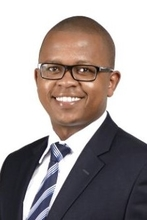
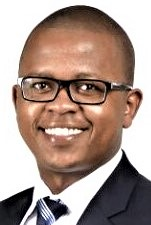
Fixing typography

diff --git a/index.html b/index.html
@@ -185,43 +185,26 @@
         <div class="row footer-main">
 
              <div class="col-six tab-full left">
-                 <h5 class="h5" style="text-align: center; color: #1B308A; font-weight: 900;"><i class="fa fa-caret-up" aria-hidden="true"></i> LXG Trinity</h5>
+                 <h5 class="h5" style="text-align: center; color: #1B308A; font-weight: 900;">LXG Trinity</h5>
                     <p style="text-align: justify;">
                        Our Trinity serves to represent the foundations that guide us in achieving the Extra element in an ordinary event that creates a positive outcome to our businesses and clients
                     </p>
-                    <ul type="square" style="text-align: left; list-style-type: none;">
-                        <li><i class="fa fa-handshake-o"></i> Partnership</li>
-                        <li><i class="fa fa-lightbulb-o" aria-hidden="true"></i> Skillset</li>
-                        <li><i class="fa fa-line-chart" aria-hidden="true"></i> Value</li>
+                    <ul type="square" style="text-align: left;">
+                        <li>Leverage</li>
+                        <li>Experience</li>
+                        <li>Growth</li>
                     </ul>
              </div>
              <div class="col-six tab-full right">
-                 <h5 class="blockquote-title" style="text-align: center; color: #1B308A; font-weight: 900;"><i class="fa fa-area-chart" aria-hidden="true"></i> Vision and Mission
-                </h5>
+                 <h5 class="blockquote-title" style="text-align: center; color: #1B308A; font-weight: 900;">Vision</h5>
                     <p style="text-align: justify;">
                         LXG Group will continue to look over and beyond the realms of the ordinary to enable it to become the leading provider of business solutions for Africa. As the world shines it light on Africa, LXG Group will be there to harness these opportunities and impact business activities across the continent.
                     </p>
-                    <h5 class="blockquote-title" style="font-weight: 900;">Mision</h5>
+                    <h5 class="blockquote-title" style="font-weight: 900; color: #1B308A; text-align: center;">Mision</h5>
                         <p style="font-size: 1.0em;">
                             To transform businesses by going the extra mile.
                         </p>
              </div>
-             <hr>
-        </div>
-        <div class="row about-desc aos-init aos-animate" data-aos="fade-up">
-            <div class="col-full">
-                <p>Our Group's activities are present in:</p>
-                <ul style="font-size: 1.4rem; text-align: left;">
-                    <li><a href="consultancy.html" title="activities">Consulting Services</a></li>
-                    <li><a href="building-construction.html" title="activities">Building and Construction</a></li>
-                    <li><a href="supply-management.html" title="activities">Supply Management</a></li>
-                    <li><a href="automotive-sales.html" title="activities">Automotive Sales and Tuning</a></li>
-                    <li><a href="transport-logistics.html" title="activities">Transport and Logistics</a></li>
-                    <li><a href="food-and-beverage.html" title="activities">Foods and Beverages</a></li>
-                    <li><a href="entertainmemt.html" title="activities">Entertainment and Recreation</a></li>
-                    <li><a href="realty.html" title="activities">Realty</a></li>    
-                </ul>
-            </div>
         </div>
         <!-- end about-desc -->
         <div class="about__line"></div>

diff --git a/css/main.css b/css/main.css
@@ -2217,7 +2217,7 @@ html.no-csstransitions .home-content__main {
  * ------------------------------------------------------------------- */
 @media only screen and (max-width: 1200px) {
     .about-desc {
-        font-size: 2.2rem;
+        font-size: 2rem;
         max-width: 940px;
     }
     .about-stats {
@@ -3984,24 +3984,159 @@ footer .row {
 }
 
 
-/*.rounded-circle {
-  border-radius: 50% !important;
-  height: 350px;
-  width: 550px;
-}
 
 .img-fluid {
   max-width: 100%;
-  height: auto;
-}*/
+  height: 700px;
+}
 
 .s-team{
     margin-top: 90px;
 }
 
-.card-text{
+.card-text {
     font-family: "Avenir Next Cyr W00 Regular";
     color: #1f1d5e;
+
 }
 
-/*# sourceMappingURL=main.css.map 
+
+/****************************************************/
+/*TEAM CSS*/
+/***************************************************/
+.lft {
+    padding-right: 110px; }
+
+.rght {
+    padding-left: 110px; }
+
+.tim {
+    margin-top: -60px; }
+
+ul.img-list {
+    list-style-type: none;
+    margin: 0;
+    padding: 0;
+    text-align: center; }
+
+ul.img-list li {
+    display: inline-block;
+    height: 100%;
+    margin: 0 1em 1em 0;
+    position: relative;
+    width: 100%; }
+
+span.text-content span {
+    display: table-cell;
+    text-align: center;
+    /*vertical-align: middle;*/ }
+
+.jina {
+    font-size: 14px;
+    padding: 5px; }
+
+span.text-content {
+    background-color: rgba(0, 0, 0, 0.8);
+    padding: 10px;
+    border-radius: 2px;
+    text-transform: uppercase;
+    font-size: 12px;
+    margin-top: 30%;
+    color: white;
+    cursor: pointer;
+    display: table;
+    height: 100%;
+    left: 0;
+    margin-left: 10%;
+    position: absolute;
+    width: 80%;
+    opacity: 0;
+    -webkit-transition: opacity 500ms;
+    -moz-transition: opacity 500ms;
+    -o-transition: opacity 500ms;
+    transition: opacity 500ms; }
+
+@media screen and (max-width: 1000px) {
+    .tim {
+        margin: 0px; }
+
+    .tambua {
+        display: none !important; }
+
+    .lft, .rght {
+        padding: 0px; }
+
+    .jina {
+        font-size: 12px; }
+
+    span.text-content {
+        display: none; }
+
+    .pic {
+        -webkit-filter: grayscale(1);
+        filter: grayscale(1);
+        width: 100%;
+        margin-top: 20px; } 
+    }
+
+
+span.text-content {
+    background: rgba(0, 0, 0, 0.5);
+    color: white;
+    display: table;
+    height: 200px;
+    left: 0;
+    position: absolute;
+    top: 0;
+    width: 250px;
+}
+
+ul.img-list li {
+    display: inline-block;
+    height: 200px;
+    margin: 0 1em 1em 0;
+    position: relative;
+    width: 250px;
+    -webkit-filter: grayscale(0%);
+    filter: grayscale(0%); }
+
+ul.img-list li:hover {
+    -webkit-filter: grayscale(80%);
+    filter: grayscale(80%); }
+
+span.text-content span {
+    display: table-cell;
+    text-align: justify;
+    vertical-align: middle; }
+
+
+span.text-content {
+    background: rgba(0, 0, 0, 0.5);
+    color: white;
+    cursor: pointer;
+    display: table;
+    height: 200px;
+    left: 0;
+    position: absolute;
+    top: 0;
+    width: 250px;
+    opacity: 0; }
+
+.img-list:hover span.text-content {
+    opacity: 1; }
+
+span.text-content {
+    background: rgba(0, 0, 0, 0.5);
+    color: white;
+    cursor: pointer;
+    display: table;
+    height: 200px;
+    left: 0;
+    position: absolute;
+    top: 0;
+    width: 250px;
+    opacity: 0;
+    -webkit-transition: opacity 500ms;
+    -moz-transition: opacity 500ms;
+    -o-transition: opacity 500ms;
+    transition: opacity 500ms; }

diff --git a/board.html b/board.html
@@ -135,7 +135,7 @@
         </div>
 
         <!-- 3 columns -->
-<div class="row block-1-3 block-m-1-2 block-mob-full aos-init aos-animate" data-aos="fade-up">
+<div class="row block-1-3 block-m-1-2 block-mob-full aos-init aos-animate lft" data-aos="fade-up">
     <div class="col-block">
         <div class="card h-100 text-center" style="visibility: hidden;">
             <img class="card-img-top" src="http://placehold.it/750x450" alt="">
@@ -151,19 +151,23 @@
     </div>
 
     <div class="col-block" align="center">
-        <div class="card h-100 text-center">
-            <img class="card-img-top" src="images/filbert.jpg" alt="">
-                <div class="card-body">
+        <a href="" target="">
+            <ul class="img-list">
+                <li>
+                    <img class="pic" src="images/filbert-2.jpg">
                     <h4 class="card-title">Filbert C. Chami</h4>
                     <h6 class="card-subtitle mb-2 text-muted">Chairman and Chief Executive</h6>
-                    <p class="card-text" style="text-align: justify;">
-                        Mr. Chami has over 10 years in Financial Management, Analysis, Investment and Risk management amongst others. This has seen him practice across the African continent and in Europe with his most recent position based in Sweden. <br>He holds an MBA – Finance and Strategic Management from United States International University (USIU), a Bachelor of Science in Actuarial Science from the University of Nairobi and a Bachelor of Commerce – Finance and Accounting from Strathmore University. He is also a qualified accountant, CPA(K), from Strathmore University.
-                    </p>
-                </div>
-                <div class="card-footer">
-                    <a href="mailto:fchami@lxg-group.com">fchami@lxg-group.com</a>
-                </div>
-        </div>
+                    <span class="text-content">
+                        <span>
+                            <br>
+                            <i class="tumbua" style="text-align: justify;">Mr. Chami has over 10 years in Financial Management, Analysis, Investment and Risk management amongst others. This has seen him practice across the African continent and in Europe with his most recent position based in Sweden. He holds an <br> MBA – Finance and Strategic Management from United States International University (USIU), a Bachelor of Science in Actuarial Science from the University of Nairobi and a Bachelor of Commerce – Finance and Accounting from Strathmore University. He is also a qualified accountant, CPA(K), from Strathmore University.
+</i>
+                            <br>
+                        </span>
+                    </span>
+                </li>
+            </ul>
+        </a>
     </div>
 
     <div class="col-block">

diff --git a/management.html b/management.html
@@ -151,19 +151,23 @@
     </div>
 
     <div class="col-block">
-        <div class="card h-100 text-center">
-            <img class="card-img-top" src="images/filbert.jpg" alt="">
-                <div class="card-body">
+       <a href="" target="nelson">
+            <ul class="img-list">
+                <li>
+                    <img class="pic" src="images/filbert-2.jpg">
                     <h4 class="card-title">Filbert C. Chami</h4>
                     <h6 class="card-subtitle mb-2 text-muted">Chief Executive</h6>
-                    <p class="card-text" style="text-align: justify;">
-                        Mr. Chami has over 10 years in Financial Management, Analysis, Investment and Risk management amongst others. This has seen him practice across the African continent and in Europe with his most recent position based in Sweden. <br>He holds an MBA – Finance and Strategic Management from United States International University (USIU), a Bachelor of Science in Actuarial Science from the University of Nairobi and a Bachelor of Commerce – Finance and Accounting from Strathmore University. He is also a qualified accountant, CPA(K), from Strathmore University.
-                    </p>
-                </div>
-                <div class="card-footer">
-                    <a href="mailto:fchami@lxg-group.com">fchami@lxg-group.com</a>
-                </div>
-        </div>
+                    <span class="text-content">
+                        <span>
+                            <br>
+                            <i class="tumbua" style="text-align: justify;">Mr. Chami has over 10 years in Financial Management, Analysis, Investment and Risk management amongst others. This has seen him practice across the African continent and in Europe with his most recent position based in Sweden. He holds an MBA – Finance and Strategic Management from United States International University (USIU), a Bachelor of Science in Actuarial Science from the University of Nairobi and a Bachelor of Commerce – Finance and Accounting from Strathmore University. He is also a qualified accountant, CPA(K), from Strathmore University.
+</i>
+                            <br>
+                        </span>
+                    </span>
+                </li>
+            </ul>
+        </a>
     </div>
 
     <div class="col-block">
